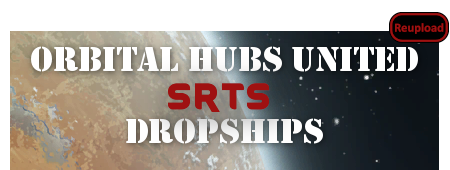
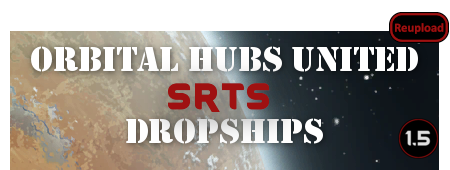
Mod updated for 1.5 and passed autotests

Changed region(s): [[0.8711, 0.7059, 0.9956, 0.9412]]

diff --git a/README.md b/README.md
@@ -5,7 +5,7 @@
 Update of Ohus mod
 https://ludeon.com/forums/index.php?topic=31906
 
-This is an old mod converted to an addon mod for https://steamcommunity.com/workshop/filedetails/?id=1845423808]SRTS Expanded since the original functionality of the mod was very similar
+This is an old mod converted to an addon mod for https://steamcommunity.com/workshop/filedetails/?id=2878587061]SRTS Expanded since the original functionality of the mod was very similar
 
 ![Image](https://i.imgur.com/pufA0kM.png)
 
@@ -54,12 +54,13 @@ Cargo capacity: 300kg
 
 -  See if the the error persists if you just have this mod and its requirements active.
 -  If not, try adding your other mods until it happens again.
--  Post your error-log using https://steamcommunity.com/workshop/filedetails/?id=818773962]HugsLib and command Ctrl+F12
+-  Post your error-log using https://steamcommunity.com/workshop/filedetails/?id=818773962]HugsLib or the standalone https://steamcommunity.com/sharedfiles/filedetails/?id=2873415404]Uploader and command Ctrl+F12
 -  For best support, please use the Discord-channel for error-reporting.
 -  Do not report errors by making a discussion-thread, I get no notification of that.
 -  If you have the solution for a problem, please post it to the GitHub repository.
+-  Use https://github.com/RimSort/RimSort/releases/latest]RimSort to sort your mods
 
 
 
+https://steamcommunity.com/sharedfiles/filedetails/changelog/2374816146]![Image](https://img.shields.io/github/v/release/emipa606/OHUDropships?label=latest%20version&style=plastic&color=9f1111&labelColor=black)
 
-https://steamcommunity.com/sharedfiles/filedetails/changelog/2374816146]Last updated 2022-12-29
